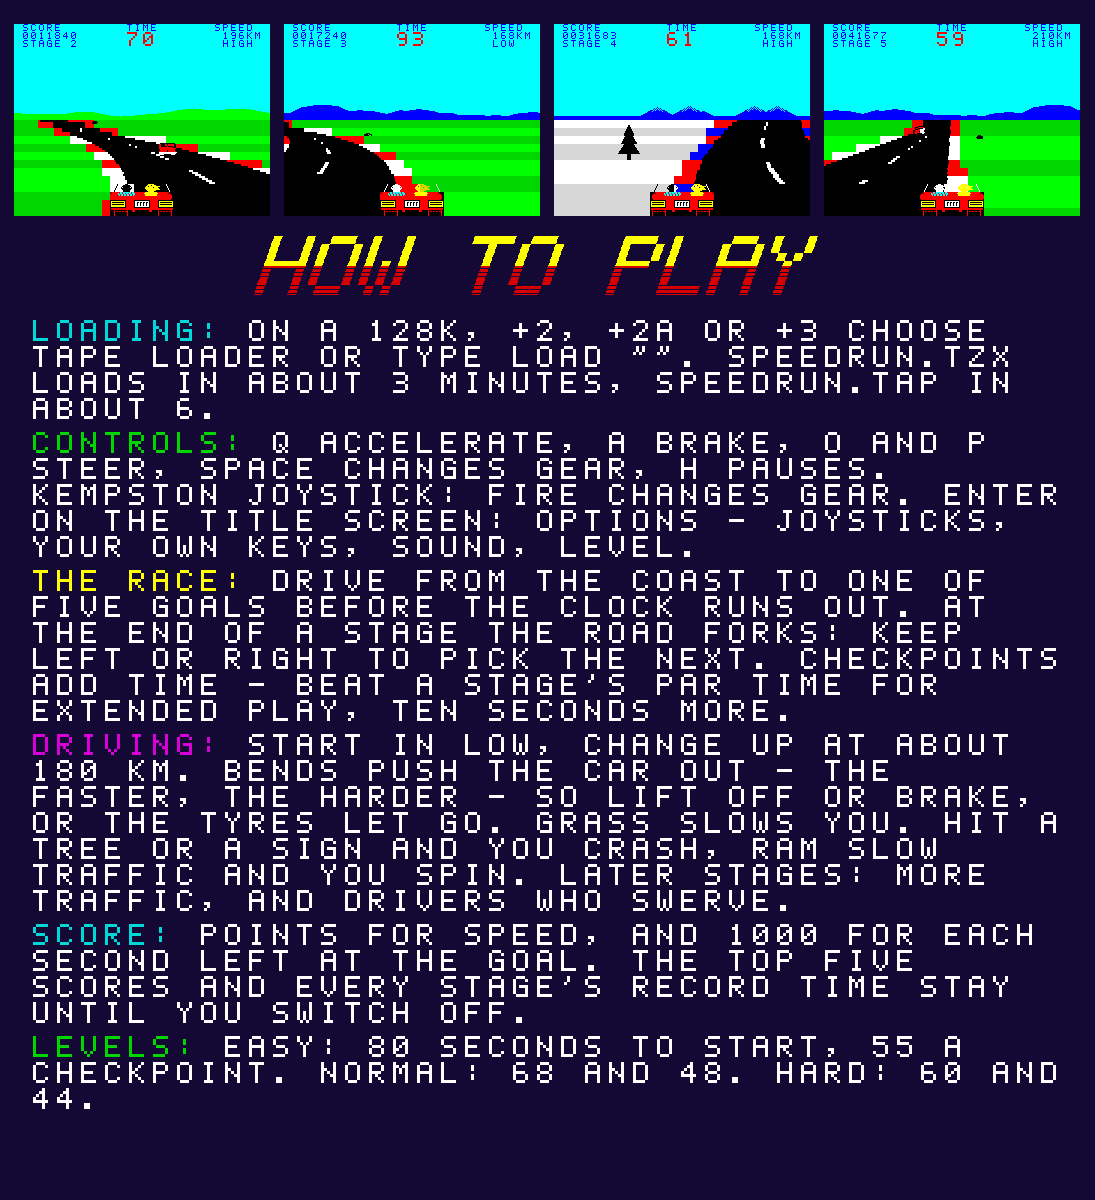
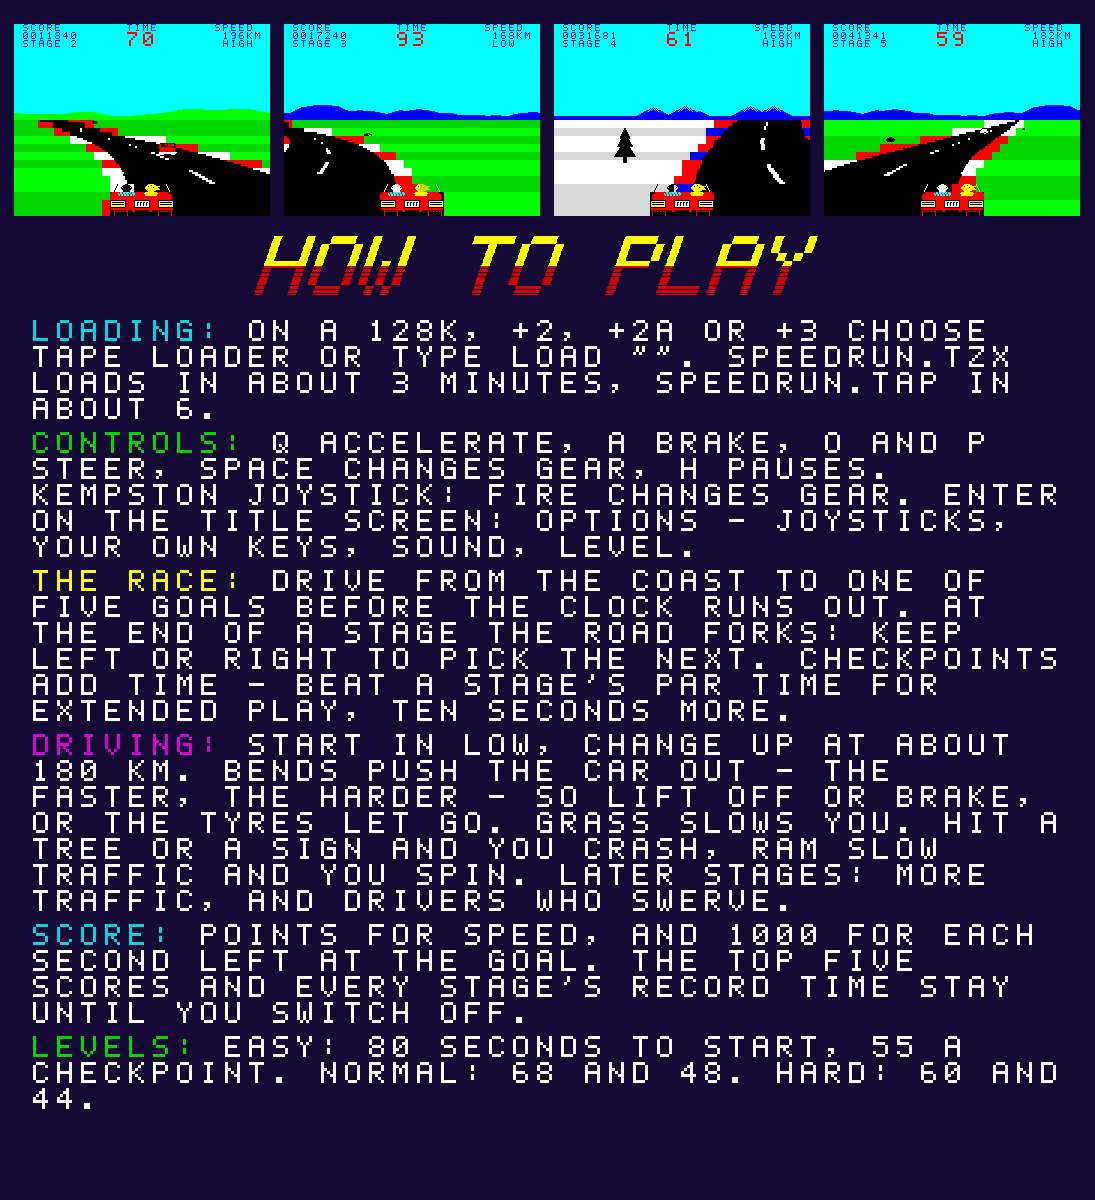
Tunnel: the way out shows a little earlier (EXIT_SEE 1536)
Claude-Session: https://claude.ai/code/session_0131gGbiN6b48386PumsB65w

Changed region(s): [[0.7452, 0.0925, 0.9936, 0.185], [0.5279, 0.0925, 0.6521, 0.1542]]

diff --git a/PLAN.md b/PLAN.md
@@ -505,7 +505,7 @@ and `tools/hotspots.py` give exact T-state breakdowns from the emulator.
   the road's edges there: approaching, a rock face, a yellow arch and the
   dark mouth (dark on its road rows too, so it shows from afar); inside, the
   sky round the far road and the ceiling round that - but only once the way
-  out is within `EXIT_SEE` (1024): further, the tunnel runs on into the dark
+  out is within `EXIT_SEE` (1536): further, the tunnel runs on into the dark
   up to the horizon.
   Road rows it paints are marked (their cached band set to 1) so the road
   redraws them. About 7% off the frame rate while a tunnel is in view. Room
